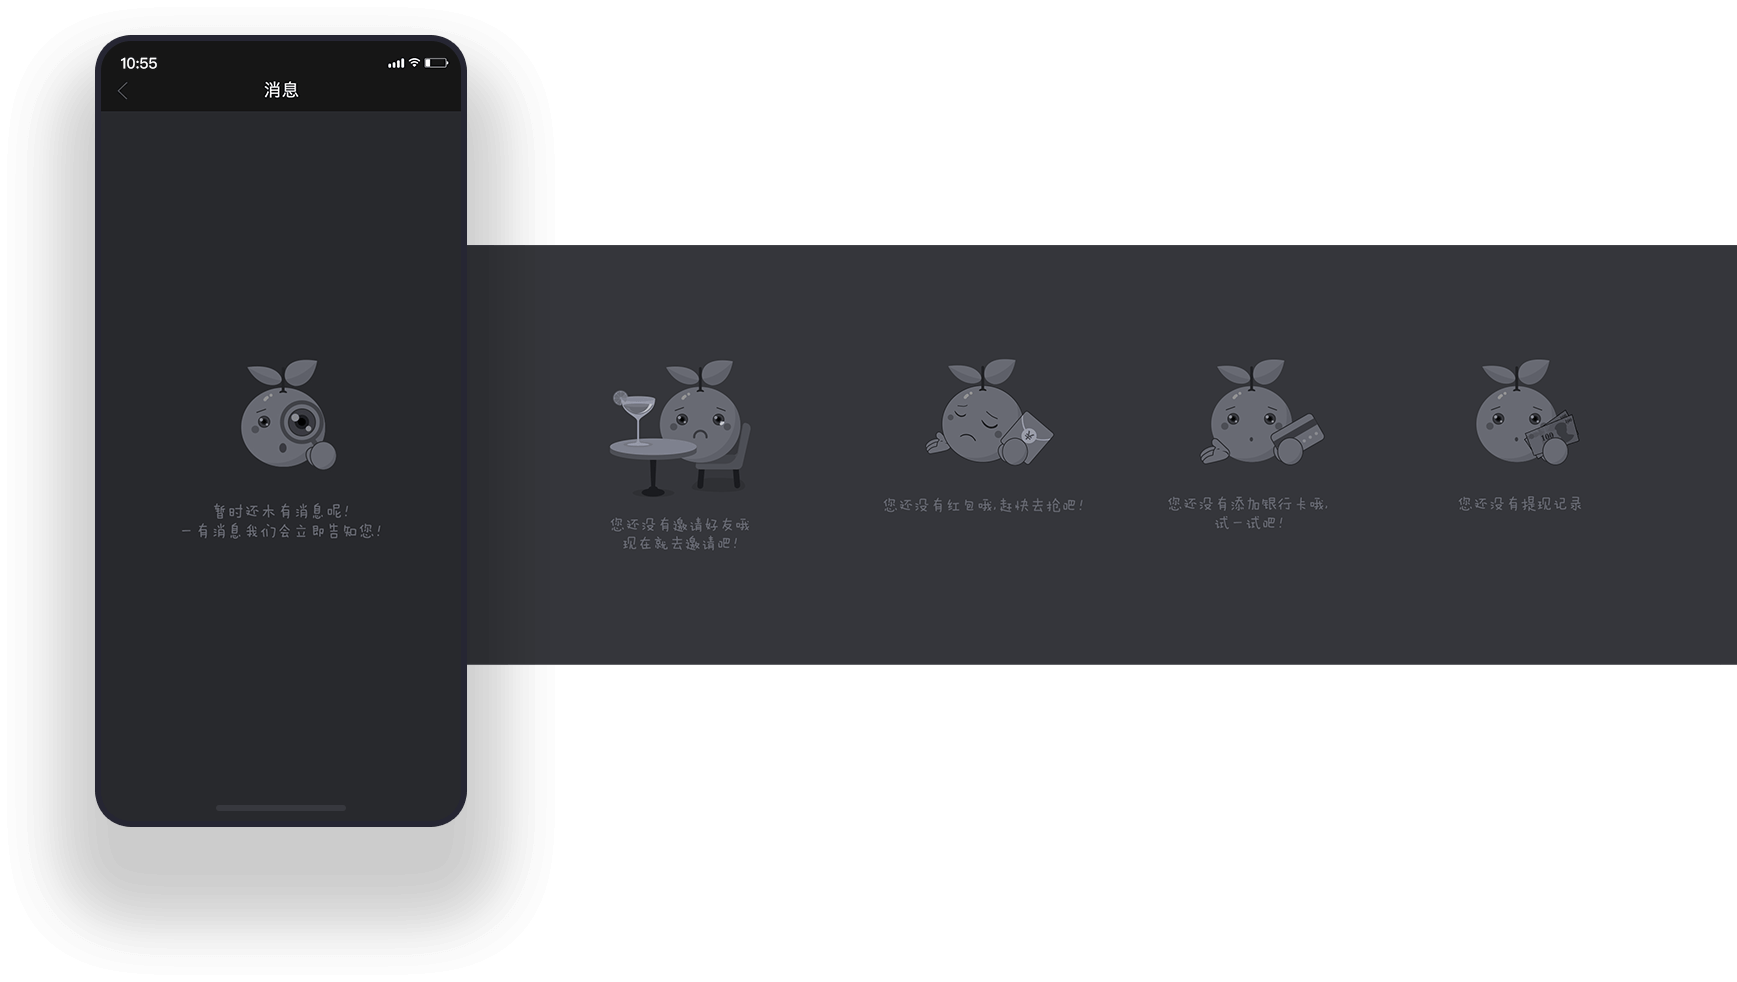
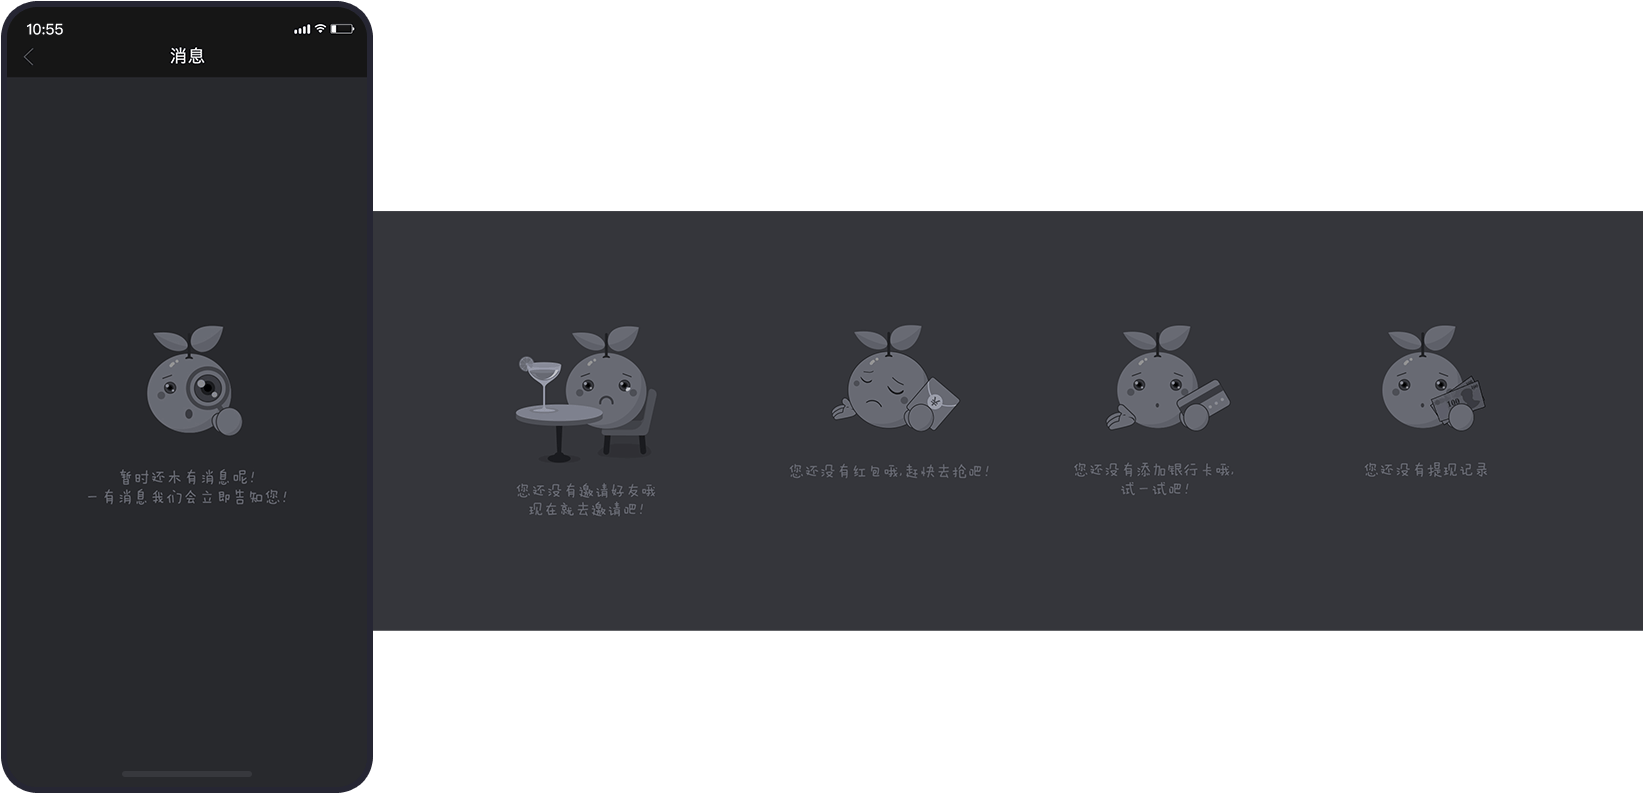
最后的优化

diff --git a/show/h5.html b/show/h5.html
@@ -47,14 +47,14 @@
                         <img class="arrow" src="../images/show-h5/icon-arrow-right.png" alt="">
                         <img class="poster" src="../images/show-h5/img-1k8e7c.png" alt="">
                     </div>
-                    <div class="fl img-show middle"><img class="arrow" src="../images/show-h5/icon-arrow-right.png" alt=""></div>
+                    <div class="fl img-show middle"><img class="arrow-down" src="../images/show-h5/icon-arrow-down.png" alt=""></div>
                     <div class="fr img-show down">
                         <img class="poster" src="../images/show-h5/img-1k8e7d.png" alt="">
-                        <img class="arrow" src="../images/show-h5/icon-arrow-right.png" alt="">
+                        <img class="arrow" src="../images/show-h5/icon-arrow-left.png" alt="">
                         <img class="poster" src="../images/show-h5/img-1k8e7e.png" alt="">
-                        <img class="arrow" src="../images/show-h5/icon-arrow-right.png" alt="">
+                        <img class="arrow" src="../images/show-h5/icon-arrow-left.png" alt="">
                         <img class="poster" src="../images/show-h5/img-1k8e7f.png" alt="">
-                        <img class="arrow" src="../images/show-h5/icon-arrow-right.png" alt="">
+                        <img class="arrow" src="../images/show-h5/icon-arrow-left.png" alt="">
                         <img class="poster" src="../images/show-h5/img-1k8e7g.png" alt="">
                     </div>
                 </div>
@@ -81,14 +81,14 @@
                         <img class="arrow" src="../images/show-h5/icon-arrow-right.png" alt="">
                         <img class="poster" src="../images/show-h5/img-2j8t4c.png" alt="">
                     </div>
-                    <div class="fl img-show middle"><img class="arrow" src="../images/show-h5/icon-arrow-right.png" alt=""></div>
+                    <div class="fl img-show middle"><img class="arrow-down" src="../images/show-h5/icon-arrow-down.png" alt=""></div>
                     <div class="fr img-show down">
                         <img class="poster" src="../images/show-h5/img-2j8t4d.png" alt="">
-                        <img class="arrow" src="../images/show-h5/icon-arrow-right.png" alt="">
+                        <img class="arrow" src="../images/show-h5/icon-arrow-left.png" alt="">
                         <img class="poster" src="../images/show-h5/img-2j8t4e.png" alt="">
-                        <img class="arrow" src="../images/show-h5/icon-arrow-right.png" alt="">
+                        <img class="arrow" src="../images/show-h5/icon-arrow-left.png" alt="">
                         <img class="poster" src="../images/show-h5/img-2j8t4f.png" alt="">
-                        <img class="arrow" src="../images/show-h5/icon-arrow-right.png" alt="">
+                        <img class="arrow" src="../images/show-h5/icon-arrow-left.png" alt="">
                         <img class="poster" src="../images/show-h5/img-2j8t4g.png" alt="">
                     </div>
                 </div>
@@ -109,14 +109,14 @@
                         <img class="arrow" src="../images/show-h5/icon-arrow-right.png" alt="">
                         <img class="poster" src="../images/show-h5/img-3w5r2d.png" alt="">
                     </div>
-                    <div class="fl img-show middle"><img class="arrow" src="../images/show-h5/icon-arrow-right.png" alt=""></div>
+                    <div class="fl img-show middle"><img class="arrow-down" src="../images/show-h5/icon-arrow-down.png" alt=""></div>
                     <div class="fr img-show down">
                         <img class="poster" src="../images/show-h5/img-3w5r2e.png" alt="">
-                        <img class="arrow" src="../images/show-h5/icon-arrow-right.png" alt="">
+                        <img class="arrow" src="../images/show-h5/icon-arrow-left.png" alt="">
                         <img class="poster" src="../images/show-h5/img-3w5r2f.png" alt="">
-                        <img class="arrow" src="../images/show-h5/icon-arrow-right.png" alt="">
+                        <img class="arrow" src="../images/show-h5/icon-arrow-left.png" alt="">
                         <img class="poster" src="../images/show-h5/img-3w5r2g.png" alt="">
-                        <img class="arrow" src="../images/show-h5/icon-arrow-right.png" alt="">
+                        <img class="arrow" src="../images/show-h5/icon-arrow-left.png" alt="">
                         <img class="poster" src="../images/show-h5/img-3w5r2h.png" alt="">
                     </div>
                 </div>

diff --git a/show/web.html b/show/web.html
@@ -47,16 +47,7 @@
                         <span class="txt">其他常用部件</span>
                     </h2>
                     <div class="img-show">
-                        <div class="img-row">
-                            <img src="../images/show-web/component-4l1e2a.png" alt="" class="fl" style="width:50%;">
-                            <img src="../images/show-web/component-4l1e2b.png" alt="" class="fr" style="width:49%;">
-                        </div>
-                        <div class="img-row">
-                            <img src="../images/show-web/component-4l1e2c.png" alt="" style="width:170px;">
-                            <img src="../images/show-web/component-4l1e2d.png" alt="" style="width:70px; margin: 0 45px;">
-                            <img src="../images/show-web/component-4l1e2e.png" alt="" style="width:150px;">
-                            <img src="../images/show-web/component-4l1e2f.png" alt="" style="width:200px; margin-left: 25px;">
-                        </div>
+                        <img src="../images/show-web/component-4l1e2a.png" alt="" class="" style="width:100%;">
                     </div>
                 </div>
             </div>
@@ -102,14 +93,7 @@
                 <div class="wrap">
                     <h2 class="component-title">其他常用部件</h2>
                     <div class="img-show other2">
-                        <div class="img-col">
-                            <img src="../images/show-web/component-5t0r2a.png" alt="">
-                            <img src="../images/show-web/component-5t0r2e.png" alt="" style="padding-left: 22px;">
-                        </div>
-                        <div class="img-col">
-                            <img src="../images/show-web/component-5t0r2b.png" alt="">
-                            <img src="../images/show-web/component-5t0r2f.png" alt="">
-                        </div>
+                        <img src="../images/show-web/component-7r4q0a.png" alt="" style="width: 100%;">
                     </div>
                 </div>
             </div>

diff --git a/css/show-app-jinju.css b/css/show-app-jinju.css
@@ -17,7 +17,7 @@
 }
 .component.black {
     color: #fff;
-    background: #060608;
+    background: #131311;
 }
 .component .wrap{
    width: 862px;
@@ -71,7 +71,7 @@
 }
 .component .img-show .poster{
     width: 180px;
-    border: 3px solid #000;
+    border: 3px solid #131311;
     vertical-align: middle;
     border-radius: 12px;
 }
@@ -90,7 +90,7 @@
 }
 .component.black {
     color: #f4f4f6;
-    background: #060608;
+    background: #131311;
 }
 .component.black .intro .title .txt,
 .component.black .p {
@@ -99,7 +99,7 @@
 .standard {
     padding-top: 60px;
     color: #f4f4f6;
-    background: #060608;
+    background: #131311;
     overflow: hidden;
 }
 .standard .wrap {

diff --git a/css/show-app-exchain.css b/css/show-app-exchain.css
@@ -48,7 +48,7 @@
 }
 .component .img-show .poster{
     width: 180px;
-    border: 3px solid #000;
+    border: 3px solid #131311;
     vertical-align: middle;
     border-radius: 14px;
 }
@@ -70,7 +70,7 @@
 }
 .component.black {
     color: #fff;
-    background: #060608;
+    background: #131311;
 }
 .component.black .intro .title .txt,
 .component.black .p {
@@ -79,7 +79,7 @@
 .standard {
     padding: 60px 0px 0px;
     color: #f4f4f6;
-    background: #060608;
+    background: #131311;
     overflow: hidden;
 }
 .standard .wrap {

diff --git a/css/show-active.css b/css/show-active.css
@@ -8,7 +8,7 @@
     background: #f4f4f6;
 }
 .step.black {
-    background: #060608;
+    background: #131311;
 }
 .step .num {
     color: #45cdab;
@@ -66,14 +66,14 @@
 .aimg img {
     width: 100%;
     border-radius: 12px;
-    border: 3px solid #060608;
+    border: 3px solid #131311;
 }
 .aimg.black{
-    background: #060608;
+    background: #131311;
 }
 .aimg.gray {
     background: #f4f4f6;
 }
 .aimg.black img {
-    border-color: #060608;
+    border-color: #131311;
 }

diff --git a/css/show.css b/css/show.css
@@ -29,7 +29,7 @@
     width: 22px;
     height: 6px;
     margin-bottom: 10px;
-    background: #000;
+    background: #131311;
 }
 .decorate .title {
     width: 24px;
@@ -58,7 +58,7 @@
     padding-top: 37px;
     padding-left: 330px;
     text-align: left;
-    border: 3px solid #000;
+    border: 3px solid #131311;
     background: #fff url(../images/show-9e3a1a.png) no-repeat 40px bottom;
     background-size: 255px 277px;
 }

diff --git a/css/index.css b/css/index.css
@@ -19,7 +19,7 @@
     left: 0px;
     width: 11px;
     height: 70px;
-    border: 3px solid #000;
+    border: 3px solid #131311;
     -webkit-box-sizing: border-box;
     -moz-box-sizing: border-box;
     -ms-box-sizing: border-box;
@@ -94,7 +94,7 @@
     height: 206px;
     margin-top: 222px;
     text-align: center;
-    border: 3px solid #000;
+    border: 3px solid #131311;
 }
 .avator img {
     width: 85px;

diff --git a/css/show-h5.css b/css/show-h5.css
@@ -52,6 +52,7 @@
     width: 156px;
     vertical-align: middle;
     border-radius: 12px;
+    border: 3px solid #131311;
 }
 .component .img-show .arrow {
     width: 12px;
@@ -65,4 +66,11 @@
 }
 .component .img-show.middle .arrow {
     float: right;
+}
+.component .img-show .arrow-down {
+    float: right;
+    width: 18px;
+    margin-top: 15px;
+    margin-right: 96px;
+    vertical-align: middle;
 }

diff --git a/css/show-common.css b/css/show-common.css
@@ -39,7 +39,7 @@ h1, h2, h3, h4, h5, h6, p {
     width: 22px;
     height: 6px;
     margin-bottom: 10px;
-    background: #000;
+    background: #131311;
 }
 .decorate__black .title {
     width: 24px;
@@ -126,5 +126,5 @@ h1, h2, h3, h4, h5, h6, p {
 .project-intro .img {
     width: 100%;
     border-radius: 12px;
-    border: 3px solid #000;
+    border: 3px solid #131311;
 }

diff --git a/css/about.css b/css/about.css
@@ -29,7 +29,7 @@
     width: 22px;
     height: 6px;
     margin-bottom: 10px;
-    background: #000;
+    background: #131311;
 }
 .decorate .title {
     width: 24px;
@@ -48,7 +48,7 @@
     width: 226px;
     height: 280px;
     text-align: center;
-    border: 3px solid #000;
+    border: 3px solid #131311;
 }
 .avator img {
     width: 180px;

diff --git a/css/common.css b/css/common.css
@@ -47,7 +47,7 @@ a:hover {color: #45cdab;}
     bottom: -3px;
     right: 720px;
     z-index: 10;
-    width: 1000px;
+    width: 1131311px;
     height: 3px;
     background: #131311;
 }

diff --git a/css/experience.css b/css/experience.css
@@ -29,7 +29,7 @@
     width: 22px;
     height: 6px;
     margin-bottom: 10px;
-    background: #000;
+    background: #131311;
 }
 .decorate .title {
     width: 24px;
